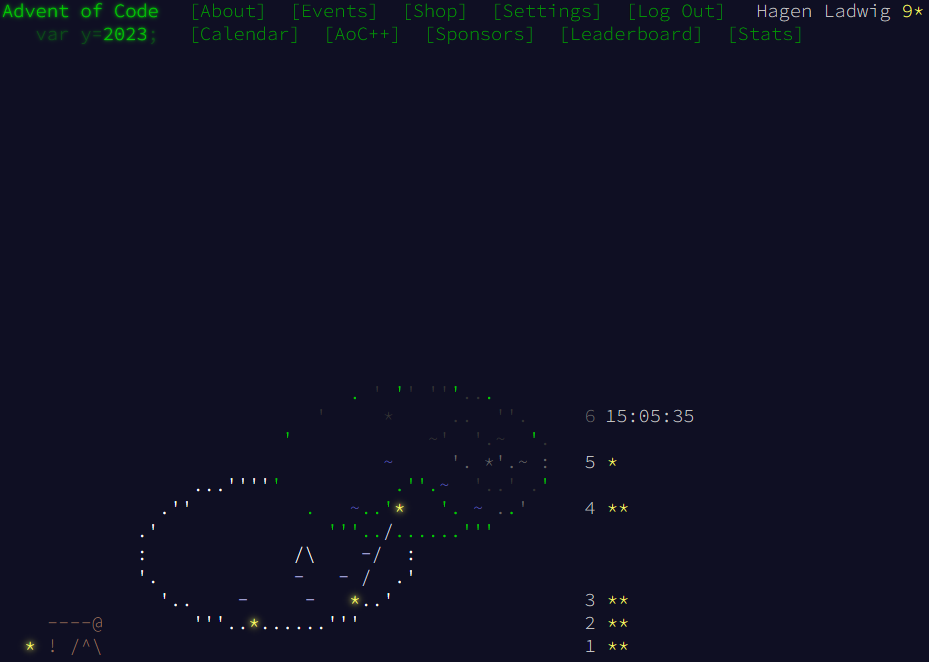
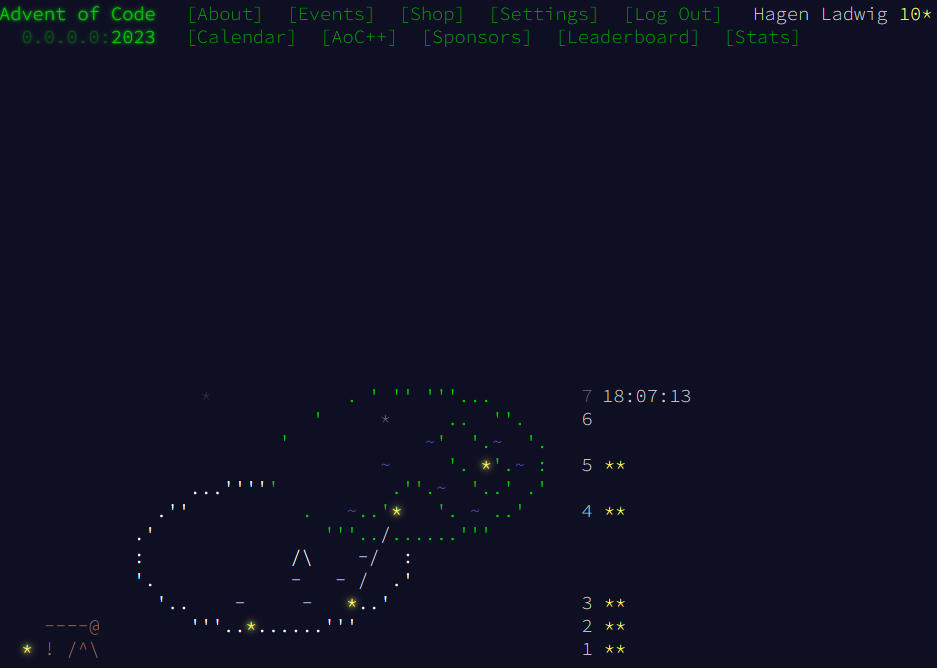
Day5 complete, needed sleep to see the correct new ranges and not to make off by 1 mistakes

diff --git a/src/main.rs b/src/main.rs
@@ -536,7 +536,7 @@ fn day5_2(input: &str) -> i64 {
         let start = source.pop().unwrap();
         ranges.push((start, length));
     }
-    println!("{:?}", ranges);
+    //println!("{:?}", ranges);
     let transformation_blocks = input.split("map:");
     let mut mappings: Vec<Vec<Day5tf>> = vec![];
     for tf in transformation_blocks {
@@ -556,14 +556,81 @@ fn day5_2(input: &str) -> i64 {
         }
         mappings.push(transformations);
     }
-    mappings.reverse();
     //day5transform_ranges_rec(ranges.pop().unwrap(), ranges, &mut mappings);
-    0
+    //println!("{:?}", ranges);
+    for mapping in mappings {
+        let mut switch_ranges: Vec<(i64, i64)> = vec![];
+        for range in ranges {
+            switch_ranges.append(&mut day5apply_mapping(range, &mapping));
+        }
+        ranges = switch_ranges;
+        //println!("{:?}", ranges);
+    }
+    ranges.iter().map(|x| x.0).min().unwrap()
 }
 
-fn day5apply_mapping(seeds: &(i64, i64), mapping: &Vec<Day5tf>) -> Vec<(i64, i64)> {
+fn day5apply_mapping(seeds: (i64, i64), mapping: &Vec<Day5tf>) -> Vec<(i64, i64)> {
+    //println!("Mapping: {:?}", mapping);
     let mut result: Vec<(i64, i64)> = vec![];
-    let mut originalrest = seeds;
+    let mut ranges_to_test: Vec<(i64, i64)> = vec![seeds];
+    while !ranges_to_test.is_empty() {
+        let originalrest = ranges_to_test.pop().unwrap();
+        let mut splitted = false;
+        //println!("Ranges to test: {:?}", ranges_to_test);
+        //println!("Now testing: {:?}", originalrest);
+        for tf in mapping {
+            if tf.source + tf.range <= originalrest.0
+                || tf.source >= originalrest.0 + originalrest.1
+            {
+                continue;
+            }
+            splitted = true;
+            let diff = tf.destination - tf.source;
+            if tf.source <= originalrest.0 {
+                //println!("tfs<orig");
+                if tf.source + tf.range >= originalrest.0 + originalrest.1 {
+                    //println!("komplett enthalten");
+                    result.push((originalrest.0 + diff, originalrest.1));
+                } else {
+                    //println!("aufteilung");
+                    let splitposition = tf.source + tf.range - originalrest.0;
+                    result.push((originalrest.0 + diff, splitposition));
+                    ranges_to_test.push((
+                        originalrest.0 + splitposition,
+                        originalrest.1 - splitposition,
+                    ));
+                }
+            } else {
+                // tf.source > originalrest.0
+                //println!("tfs<orig");
+                if tf.source + tf.range >= originalrest.0 + originalrest.1 {
+                    //println!("aufteilung in zwei");
+                    let splitposition = originalrest.0 + originalrest.1 - tf.source;
+                    result.push((tf.source + diff, splitposition));
+                    ranges_to_test.push((originalrest.0, originalrest.1 - splitposition));
+                } else {
+                    //println!("aufteilung in drei");
+                    result.push((tf.source + diff, tf.range));
+                    ranges_to_test.push((originalrest.0, tf.source - originalrest.0));
+                    ranges_to_test.push((
+                        tf.source + tf.range,
+                        originalrest.0 + originalrest.1 - tf.source - tf.range,
+                    ));
+                }
+            }
+        }
+        if !splitted {
+            result.push(originalrest);
+        }
+    }
+
+    result
+}
+
+/*
+fn day5apply_mapping_rec(seeds: (i64, i64), mapping: &Vec<Day5tf>) -> Vec<(i64, i64)> {
+    let mut result: Vec<(i64, i64)> = vec![];
+    let originalrest = seeds;
     for tf in mapping {
         if tf.source + tf.range < originalrest.0 || tf.source > originalrest.0 + originalrest.1 {
             continue;
@@ -578,8 +645,8 @@ fn day5apply_mapping(seeds: &(i64, i64), mapping: &Vec<Day5tf>) -> Vec<(i64, i64
                 result.push((originalrest.0 + diff, splitposition));
                 //originalrest.0+=splitposition+1;
                 //originalrest.1-=splitposition;
-                result.append(&mut day5apply_mapping(
-                    &(
+                result.append(&mut day5apply_mapping_rec(
+                    (
                         originalrest.0 + splitposition + 1,
                         originalrest.1 - splitposition,
                     ),
@@ -591,19 +658,19 @@ fn day5apply_mapping(seeds: &(i64, i64), mapping: &Vec<Day5tf>) -> Vec<(i64, i64
             if tf.source + tf.range >= originalrest.0 + originalrest.1 {
                 let splitposition = originalrest.0 + originalrest.1 - tf.source;
                 result.push((tf.source + diff, splitposition));
-                result.append(&mut day5apply_mapping(
-                    &(originalrest.0, originalrest.1 - splitposition),
+                result.append(&mut day5apply_mapping_rec(
+                    (originalrest.0, originalrest.1 - splitposition),
                     mapping,
                 ));
             } else {
                 let splitposition = originalrest.0 + originalrest.1 - tf.source;
                 result.push((tf.source, splitposition));
-                result.append(&mut day5apply_mapping(
-                    &(originalrest.0, originalrest.1 - splitposition),
+                result.append(&mut day5apply_mapping_rec(
+                    (originalrest.0, originalrest.1 - splitposition),
                     mapping,
                 ));
-                result.append(&mut day5apply_mapping(
-                    &(
+                result.append(&mut day5apply_mapping_rec(
+                    (
                         tf.source + splitposition + 1,
                         originalrest.0 + originalrest.1 - splitposition - tf.source,
                     ),
@@ -613,11 +680,10 @@ fn day5apply_mapping(seeds: &(i64, i64), mapping: &Vec<Day5tf>) -> Vec<(i64, i64
         }
     }
 
-    result.push(*originalrest);
+    result.push(originalrest);
     result
 }
 
-/*
 fn day5transform_ranges_rec(
     testseeds: (i64, i64),
     restseeds: Vec<(i64, i64)>,
@@ -634,7 +700,7 @@ fn day5transform_ranges_rec(
         // apply first mapping then call with new ranges and rest of mappings
         let act_mapping = mappings.pop().unwrap();
         println!("Vor apply: {:?}", testseeds);
-        let mut new_ranges = day5apply_mapping(&testseeds, &act_mapping);
+        let mut new_ranges = day5apply_mapping_rec(&testseeds, &act_mapping);
         println!("nach apply: {:?}", new_ranges);
         return day5transform_ranges_rec(new_ranges.pop().unwrap(), new_ranges, mappings);
     }
@@ -649,7 +715,7 @@ fn day5() {
             .expect("Data for day5-Problem not found");
 
     println!("{}", day5_1(&data));
-    //println!("{}", day5_2(&data));
+    println!("{}", day5_2(&data));
 }
 
 fn main() {
